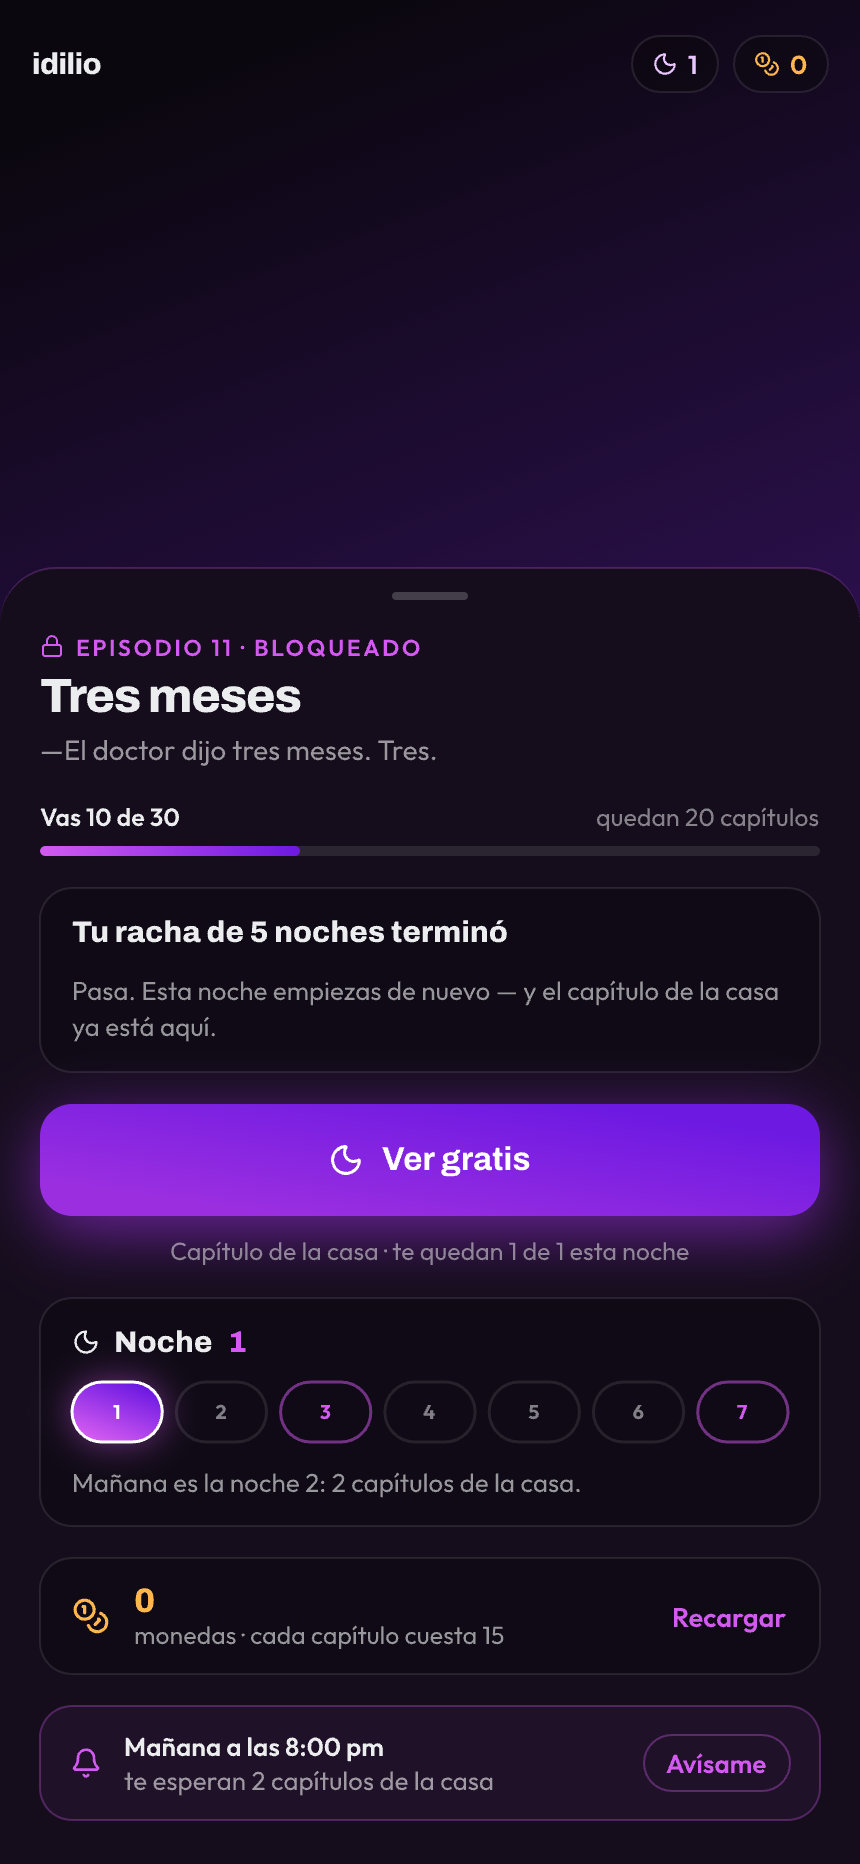
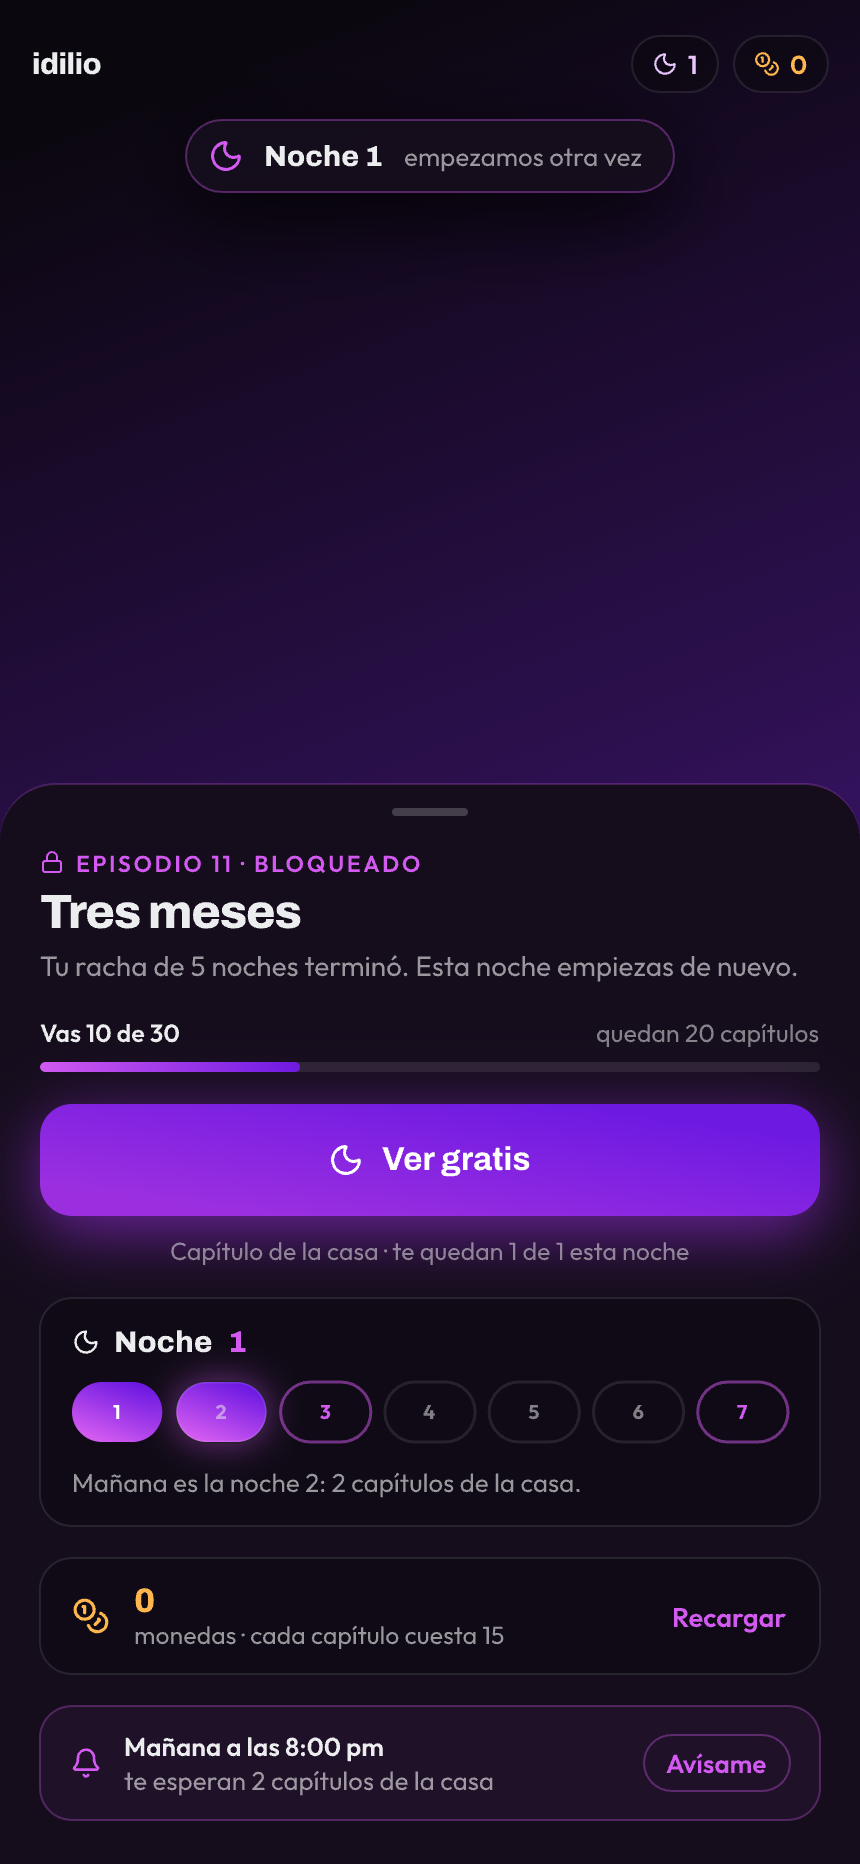
Revisión adversarial: cinco defectos encontrados y corregidos
Repaso crítico de todo el entregable comprobando cada afirmación en vez de
darla por buena.

1. El export tenía 21 patrones referenciados por las pantallas y NO definidos
   en la librería: referencias colgantes para quien consuma el JSON. Definidos
   los 33, y la tabla del README ahora se genera desde el JSON para que no
   puedan volver a divergir.

2. Dos ratios de contraste estaban estimados a ojo y salieron mal: 3,3 era
   3,20 y 4,8 era 4,97. Añadido docs/modelo/contraste.mjs, que los calcula con
   la fórmula WCAG sobre sRGB linearizado y falla si alguno baja de AA. Un
   número de accesibilidad que no se calcula no es un número, es una opinión.

3. En iPhone SE (375×667) el estado de racha rota scrolleaba, y lo que quedaba
   bajo el pliegue era la cita de regreso — el bloque cuya única función es
   asegurar que el usuario vuelva, en el único estado donde acaba de perder la
   racha. Solo se ve midiendo el scrollHeight, no mirando. El aviso pasa a
   ocupar el sitio de la línea de diálogo: los ocho estados miden ahora 565–585
   px y ninguno scrollea en 430×932 ni en 375×667.

4. Dos afirmaciones absolutas sin respaldo en la librería de patrones («el 100%
   del consumo es con sonido apagado», «va en el de mayor margen») sustituidas
   por lo que sí está observado o por una declaración de que es decisión de
   negocio.

5. El archivo de diseño divergía del POC en el estado F. Reconstruido y
   reexportado; ahora coinciden.
[…]

diff --git a/poc/src/styles.css b/poc/src/styles.css
@@ -26,7 +26,7 @@
   --cta-glow: 0 8px 32px -8px rgba(155, 47, 224, 0.65);
 
   --text-dim: rgba(236, 237, 237, 0.62);
-  --text-faint: rgba(236, 237, 237, 0.52); /* 0.38 fallaba AA (3,3:1); 0.52 da 4,8:1 sobre --home-surface-2 */
+  --text-faint: rgba(236, 237, 237, 0.52); /* 0.38 fallaba AA (3,20:1); 0.52 da 4,97:1 sobre --home-surface-2 */
   --hairline: rgba(236, 237, 237, 0.1);
 
   --font-ui: 'Outfit', system-ui, -apple-system, sans-serif;      /* ≈ sofiaPro */
@@ -253,8 +253,11 @@ button { font: inherit; color: inherit; border: none; background: none; cursor: 
 
 .sheet {
   position: absolute; left: 0; right: 0; bottom: 0; z-index: 11;
-  max-height: 92%;
+  /* 94% deja siempre una franja del frame a la vista (el deseo no desaparece)
+     y da margen para el estado más alto —racha rota— en pantallas de 667 px. */
+  max-height: 94%;
   overflow-y: auto;
+  overscroll-behavior: contain;
   padding: 10px 20px calc(18px + env(safe-area-inset-bottom));
   border-radius: var(--r-sheet) var(--r-sheet) 0 0;
   background:
@@ -391,13 +394,15 @@ button { font: inherit; color: inherit; border: none; background: none; cursor: 
 }
 .appointment button.on { background: rgba(210,90,240,0.16); color: #f3ddff; }
 
-/* ── Estado F: racha rota ── */
-.broken {
-  margin-top: 18px; padding: 15px 16px; border-radius: var(--r-md);
-  background: rgba(11, 7, 15, 0.55); border: 1px solid var(--hairline);
+/* ── Estado F: racha rota ──
+   Ocupa el sitio de la línea de diálogo, no uno propio: el fallo no puede pesar
+   visualmente más que la recuperación, y así TODOS los estados del muro miden
+   lo mismo — incluido en pantallas de 667 px de alto. */
+.sheet-lede.broken {
+  display: flex; align-items: flex-start; gap: 8px;
 }
-.broken h3 { font-family: var(--font-display); font-size: 15px; font-weight: 800; }
-.broken p { font-size: 13px; color: var(--text-dim); margin-top: 5px; }
+.sheet-lede.broken svg { flex-shrink: 0; margin-top: 3px; color: var(--home-magenta); }
+.sheet-lede.broken b { color: var(--home-text); font-weight: 600; }
 
 /* ══ Hoja de cuenta (noche 3) ══════════════════════════════════════════════ */
 

diff --git a/poc/src/components/UnlockSheet.tsx b/poc/src/components/UnlockSheet.tsx
@@ -71,7 +71,19 @@ export function UnlockSheet({
           <Lock s={12} /> Episodio {ep} · bloqueado
         </p>
         <h2 className="sheet-title">{meta.title}</h2>
-        <p className="sheet-lede">{meta.line}</p>
+        {/* En el estado roto el aviso SUSTITUYE a la línea de diálogo en vez de
+            sumarse: dos mensajes seguidos compiten, y así todos los estados del
+            muro miden lo mismo. La consistencia de altura es parte del craft. */}
+        {brokenFrom !== null ? (
+          <p className="sheet-lede broken">
+            <Moon s={13} />
+            <span>
+              <b>Tu racha de {brokenFrom} noches terminó.</b> Esta noche empiezas de nuevo.
+            </span>
+          </p>
+        ) : (
+          <p className="sheet-lede">{meta.line}</p>
+        )}
 
         {/* ── 2 · POSICIÓN ──────────────────────────────────────────────── */}
         <div className="position">
@@ -84,14 +96,6 @@ export function UnlockSheet({
             <i style={{ width: `${((ep - 1 + (spent ? 1 : 0)) / 30) * 100}%` }} />
           </div>
         </div>
-
-        {/* ── Estado F: racha rota. Se informa, no se regaña. ───────────── */}
-        {brokenFrom !== null && (
-          <div className="broken">
-            <h3>Tu racha de {brokenFrom} noches terminó</h3>
-            <p>Pasa. Esta noche empiezas de nuevo — y el capítulo de la casa ya está aquí.</p>
-          </div>
-        )}
 
         {/* ── 3 · ACCIÓN ────────────────────────────────────────────────── */}
         {hasPass ? (

diff --git a/export/README.md b/export/README.md
@@ -47,8 +47,10 @@ reutilizarse en el proyecto: cada entrada trae la decisión que la sostiene, no 
 > El precio va **después** de que el usuario ya sabe que hay una vía sin pagar. Quien compra
 > ahí compra por impaciencia, no por bloqueo.
 >
-> **Verificado en el POC:** los seis bloques caben **sin scroll** en 430×932. La economía
-> completa —dos fuentes, el sumidero, el saldo y la posición— entra en una sola pantalla.
+> **Verificado en el POC, no estimado:** los seis bloques caben **sin scroll** en 430×932 **y
+> también en 375×667 (iPhone SE)**, que es el caso duro. Medido en el DOM sobre los ocho
+> estados: van de **565 a 585 px**, un rango de 20 px. La economía completa —dos fuentes, el
+> sumidero, el saldo y la posición— entra en una sola pantalla en todos ellos.
 
 ### ③ Cuenta como seguro de la racha
 | | Pantalla | Estado |
@@ -74,18 +76,41 @@ reutilizarse en el proyecto: cada entrada trae la decisión que la sostiene, no 
 
 | Patrón | Qué resuelve |
 |---|---|
-| `bottom-sheet-paywall` | Muro como hoja sobre el frame difuminado, nunca pantalla nueva. Mantiene el deseo visible mientras se lee el precio. |
-| `earned-currency-cta` | El CTA primario es la moneda **ganada** cuando existe; la comprada baja a secundaria. Se invierte solo cuando la ganada se agotó. |
-| `streak-tracker` | Siete lunas numeradas. Los hitos (3 y 7) se preanuncian con borde magenta antes de alcanzarlos. |
-| `return-appointment` | Cita explícita con hora + recordatorio opcional. Sin esto, el regreso depende de la memoria del usuario. |
-| `non-blocking-toast` | Confirmación de progreso que no detiene el video. |
-| `loss-framed-signup` | Registro como seguro sobre algo ya ganado, no como peaje de entrada. |
-| `value-in-outcome-units` | Precios en la unidad que el usuario entiende (capítulos), no en la interna (monedas). |
-| `no-blame-copy` | Al romperse una mecánica de constancia, informar y reabrir; nunca culpar. |
-| `spend-receipt` | Un «−15» que sube y se desvanece sobre el saldo. Hace visible el gasto que el contador por sí solo esconde. |
-| `optimistic-counter` | El saldo se interpola hacia el valor nuevo (~620 ms) en vez de saltar. El usuario ve bajar su dinero. |
-| `confirm-in-place` | El CTA se convierte en confirmación (✓) antes de cerrar, en vez de desaparecer al instante. |
-| `hud-mute-on-sheet` | Con el sheet abierto, los chips del HUD se apagan: la economía ya está completa abajo. |
+| `action-rail` | Columna vertical de acciones (me gusta / comentarios / compartir) en el borde derecho, al alcance del pulgar. Nunca se solapa con el subtítulo quemado ni con los metadatos. |
+| `best-value-tag` | Etiqueta que ancla la comparación entre paquetes. Su trabajo es dar un punto de referencia, no presionar: sin un ancla, tres precios sueltos obligan al usuario a construir la comparación él mismo. Qué paquete la lleva es una decisión de negocio, no de diseño. |
+| `bottom-sheet-paywall` | Muro como hoja inferior sobre el frame congelado y difuminado, nunca como pantalla nueva. Mantiene el deseo visible mientras se lee el precio. |
+| `burned-in-subtitle` | Línea de diálogo quemada sobre el vídeo, centrada, display bold con sombra dura. Es la convención del formato y resuelve un caso observado en el producto real: el reproductor de idilio.tv arranca en mute (hay un botón «Activar sonido»), así que el primer contacto con la escena es solo visual. |
+| `confirm-in-place` | El CTA se convierte en confirmación (✓) durante ~880 ms antes de cerrar, en vez de desaparecer al instante. |
+| `cycle-completion` | Cierre del ciclo de 7 con la recompensa máxima y reposición del escudo. El contador de noches no se reinicia; lo que se repite es el ciclo. |
+| `dismissible` | Toda hoja que pide algo se puede cerrar sin coste y sin repetirse. Si la mecánica necesita insistir, la mecánica está mal puesta. |
+| `earned-currency-cta` | El CTA primario es la moneda GANADA cuando existe; la comprada baja a secundaria. Se invierte solo cuando la ganada se agotó. |
+| `economy-chip` | Píldora de 28 px con icono y cifra en el HUD superior, fondo translúcido y sin relleno sólido. Techo estricto: como máximo dos, y nunca sobre la cara del actor. |
+| `escalating-reward` | La recompensa crece con la constancia (1→2→3). Duplicar es la progresión más legible que existe y no necesita explicación. |
+| `hud-mute-on-sheet` | Con el sheet abierto, los chips de economía del HUD se apagan: la economía ya está completa abajo y duplicarla arriba genera ruido y desincronización durante la animación. |
+| `iap-packs` | Tres paquetes, uno marcado como mejor valor. Tres es el mínimo para que exista un punto medio y el máximo antes de que la elección pese. |
+| `loss-framed-signup` | Registro planteado como seguro sobre algo ya ganado, no como peaje de entrada. |
+| `max-faucet` | Techo explícito de la fuente gratuita, calibrado contra el apetito observado de la sesión. Aquí 5 episodios frente a 14: queda de pago el 64% del apetito. |
+| `milestone-reward` | Salto de recompensa en la noche donde el dato dice que el producto más gana (aquí la 3, con el 2,4× de D30). Se premia donde el negocio gana, no donde queda bonito. |
+| `no-blame-copy` | Al romperse una mecánica de constancia, el copy informa y reabre; nunca culpa. |
+| `non-blocking-toast` | Confirmación de progreso que no detiene el video. 2,5–3,4 s. |
+| `oauth-stack` | Proveedores de acceso apilados verticalmente y con el mismo peso visual, sin uno destacado. Destacar uno adivina el ecosistema del usuario y penaliza al resto. |
+| `optimistic-counter` | El saldo se interpola hacia el valor nuevo en ~620 ms en vez de saltar. El usuario ve bajar su dinero. |
+| `post-hoc-notification` | Se informa de lo que ya pasó, no se pide permiso para que pase. Aplica a todo lo que el sistema puede decidir sin ambigüedad. |
+| `progress-position` | Barra de 5 px con «vas N de M» y capítulos restantes. Responde «¿dónde estoy?» antes de que la pantalla pregunte «¿cuánto pagas?». |
+| `purchase-cta` | CTA de compra que nombra el precio exacto en el propio botón («Desbloquear por 15»), no un genérico «Desbloquear». El usuario tiene que poder hacer la resta antes de tocar. |
+| `return-appointment` | Cita explícita con hora («mañana a las 8:00 pm») y recordatorio opcional. Sin esto, el regreso depende de que el usuario se acuerde. |
+| `spend-receipt` | Un «−15» que sube y se desvanece sobre el saldo. Es el recibo: hace visible el gasto que el contador por sí solo esconde. |
+| `streak-confirmation` | Acuse de recibo de que la noche se acreditó, entregado sin pedir nada a cambio. La acreditación ya ocurrió: esto solo la hace visible. |
+| `streak-freeze-badge` | Insignia de escudo disponible, en cian para no confundirse con moneda ganada (marca) ni comprada (ámbar). |
+| `streak-freeze-consumed` | El escudo se gasta solo, sin diálogo de confirmación. Cada pregunta al usuario sobre su racha es una oportunidad de que piense en abandonarla. |
+| `streak-reset` | Al romperse la racha: se informa, no se regaña, y la recompensa de la noche nueva ya está visible en la misma pantalla. El modo de fallo documentado de las rachas es que al romperse el usuario abandona. |
+| `streak-tracker` | Siete lunas numeradas. Hitos (3 y 7) preanunciados con borde magenta antes de alcanzarlos. |
+| `swipe-navigation` | Deslizar arriba/abajo cambia de episodio. Es el gesto que el usuario ya trae aprendido de TikTok; cualquier botón de «siguiente» compite con él en vez de reemplazarlo. |
+| `value-in-outcome-units` | Los precios se rotulan en la unidad que el usuario entiende (capítulos), no en la unidad interna (monedas). |
+| `vertical-video-player` | Reproductor a pantalla completa 9:16 con controles mínimos: pausa por tap, barra de progreso de 2,5 px al borde inferior y sin cronómetro. En microdrama el episodio dura 60–90 s: mostrar el tiempo restante invita a calcular en vez de a seguir. |
+| `wallet-row` | Fila compacta con saldo, unidad y precio unitario en la misma línea, más un acceso a recargar. El precio vive junto al saldo, nunca suelto. |
+
+<sub>Tabla generada desde `idilio-racha-de-noches.json`. 33 patrones, todos usados por al menos una pantalla.</sub>
 
 ---
 
@@ -127,6 +152,6 @@ Tres correcciones que salieron de la auditoría y del cálculo de contraste, no 
 1. **El gradiente del CTA se corta en `#9b2fe0` y no llega al magenta de marca.** Blanco sobre
    `#d25af0` da **3,25:1** y no pasa AA para texto normal; sobre `#9b2fe0` da **5,42:1**.
    *La marca cede ante la legibilidad.*
-2. **El token de texto tenue subió de `0.38` a `0.52` de alfa.** A `0.38` daba **3,3:1** sobre
-   `--home-surface-2`; a `0.52` da **4,8:1**.
+2. **El token de texto tenue subió de `0.38` a `0.52` de alfa.** A `0.38` daba **3,20:1** sobre
+   `--home-surface-2` — por debajo del 4,5:1 de AA; a `0.52` da **4,97:1**.
 3. **Se quitó `maximum-scale=1`** del viewport, que bloqueaba el zoom en móvil.

diff --git a/docs/05-decisiones.md b/docs/05-decisiones.md
@@ -119,6 +119,22 @@ primer fallo, se corta.
 
 2. **Cerrar la hoja de cuenta dejaba al usuario dentro de un episodio bloqueado.** Corregido: si el episodio sigue bloqueado, se vuelve al muro.
 
+3. **En iPhone SE, el estado de racha rota empujaba la cita de regreso por debajo del pliegue.**
+   Esto no se ve mirando: se ve **midiendo**. Al instrumentar el `scrollHeight` de la hoja en los
+   ocho estados a 375×667, el estado F daba **679 px** contra 613 disponibles — y lo que quedaba
+   cortado era justamente **el bloque cuya única función es asegurar que el usuario vuelva**, en el
+   único estado donde el usuario acaba de perder su racha. El peor recorte posible, en el peor
+   momento posible.
+
+   *Corrección:* el aviso pasó de ser una tarjeta propia a **ocupar el sitio de la línea de
+   diálogo**. Dos mensajes seguidos competían de todos modos, y ahora los ocho estados miden entre
+   **565 y 585 px** —un rango de 20 px— y ninguno scrollea, ni en 430×932 ni en iPhone SE.
+   La consistencia de altura entre estados es parte del craft, no un detalle técnico.
+
+   *Y una lección de método:* diseñé y revisé todo el muro en 430×932. **El caso duro no estaba en
+   la pantalla que yo miraba.** Si algo hay que llevarse de esto, es que las afirmaciones sobre
+   densidad hay que medirlas en el dispositivo pequeño, no en el bonito.
+
 ---
 
 ## 5.3 Lo que probablemente esté mal en este trabajo

diff --git a/docs/03-intervencion.md b/docs/03-intervencion.md
@@ -148,7 +148,7 @@ Orden vertical, y el orden **es** el argumento:
 | **C** | Pase usado · con saldo suficiente | Usuario con monedas | CTA primario = `Desbloquear por 15 🪙`. Saldo se descuenta con animación. |
 | **D** | Noche 2 | Vuelve al día siguiente | Contador ●●○○○○○, `2 de 2` pases, copy *"y mañana son 3"*. |
 | **E** | Noche 3 — hito | Tercera noche | 3 pases + 🛡 escudo + **prompt de cuenta**. Celebración contenida. |
-| **F** | Racha rota | >1 noche sin ver, sin escudo | *"Tu racha de 5 noches terminó."* Reencuadre a `Noche 1`, sin culpa. |
+| **F** | Racha rota | >1 noche sin ver, sin escudo | *"Tu racha de 5 noches terminó."* El aviso **ocupa el sitio de la línea de diálogo**, no uno propio: el fallo no puede pesar más que la recuperación, y así todos los estados miden lo mismo. Reencuadre a `Noche 1`, sin culpa. |
 | **G** | Escudo consumido | Falta 1 noche, con escudo | *"Usamos tu escudo. Sigues en 5 noches."* Informativo, no interruptivo. |
 | **H** | Con cuenta | Post-registro | Desaparece el prompt; aparece la racha respaldada. |
 | **I** | Confirmación en reproductor | Termina 1er episodio de la noche | **Toast, no modal.** `Noche 2 🔥 · 2 capítulos listos`. 2,5s, no bloquea. |

diff --git a/README.md b/README.md
@@ -71,7 +71,7 @@ Las tres decisiones que la sostienen:
 |---|---|---|
 | Reglas de la economía | 22 tests automatizados sobre el motor puro (`poc/src/economy.test.ts`) | **22/22 ✓** |
 | Accesibilidad | axe-core · `wcag2a` `wcag2aa` `wcag21a` `wcag21aa` `best-practice` | **0 violaciones · 23 reglas ✓** |
-| Densidad del sheet | Captura real a 430×932 | los **6 bloques caben sin scroll** |
+| Densidad del sheet | Medición en DOM de los 8 estados, a 430×932 **y a 375×667 (iPhone SE)** | **ningún estado scrollea**; 565–585 px |
 | Tokens de marca | Volcado de custom properties de `www.idilio.tv` en producción | 9 colores + 2 familias tipográficas |
 | Muro real del producto | Uso propio de la web con viewport móvil | eps **1–10 libres, 11–30 bloqueados** |
 | Coherencia de los objetivos | Modelo de sensibilidad reproducible (`docs/modelo/`) | **corrigió la estrategia** |
